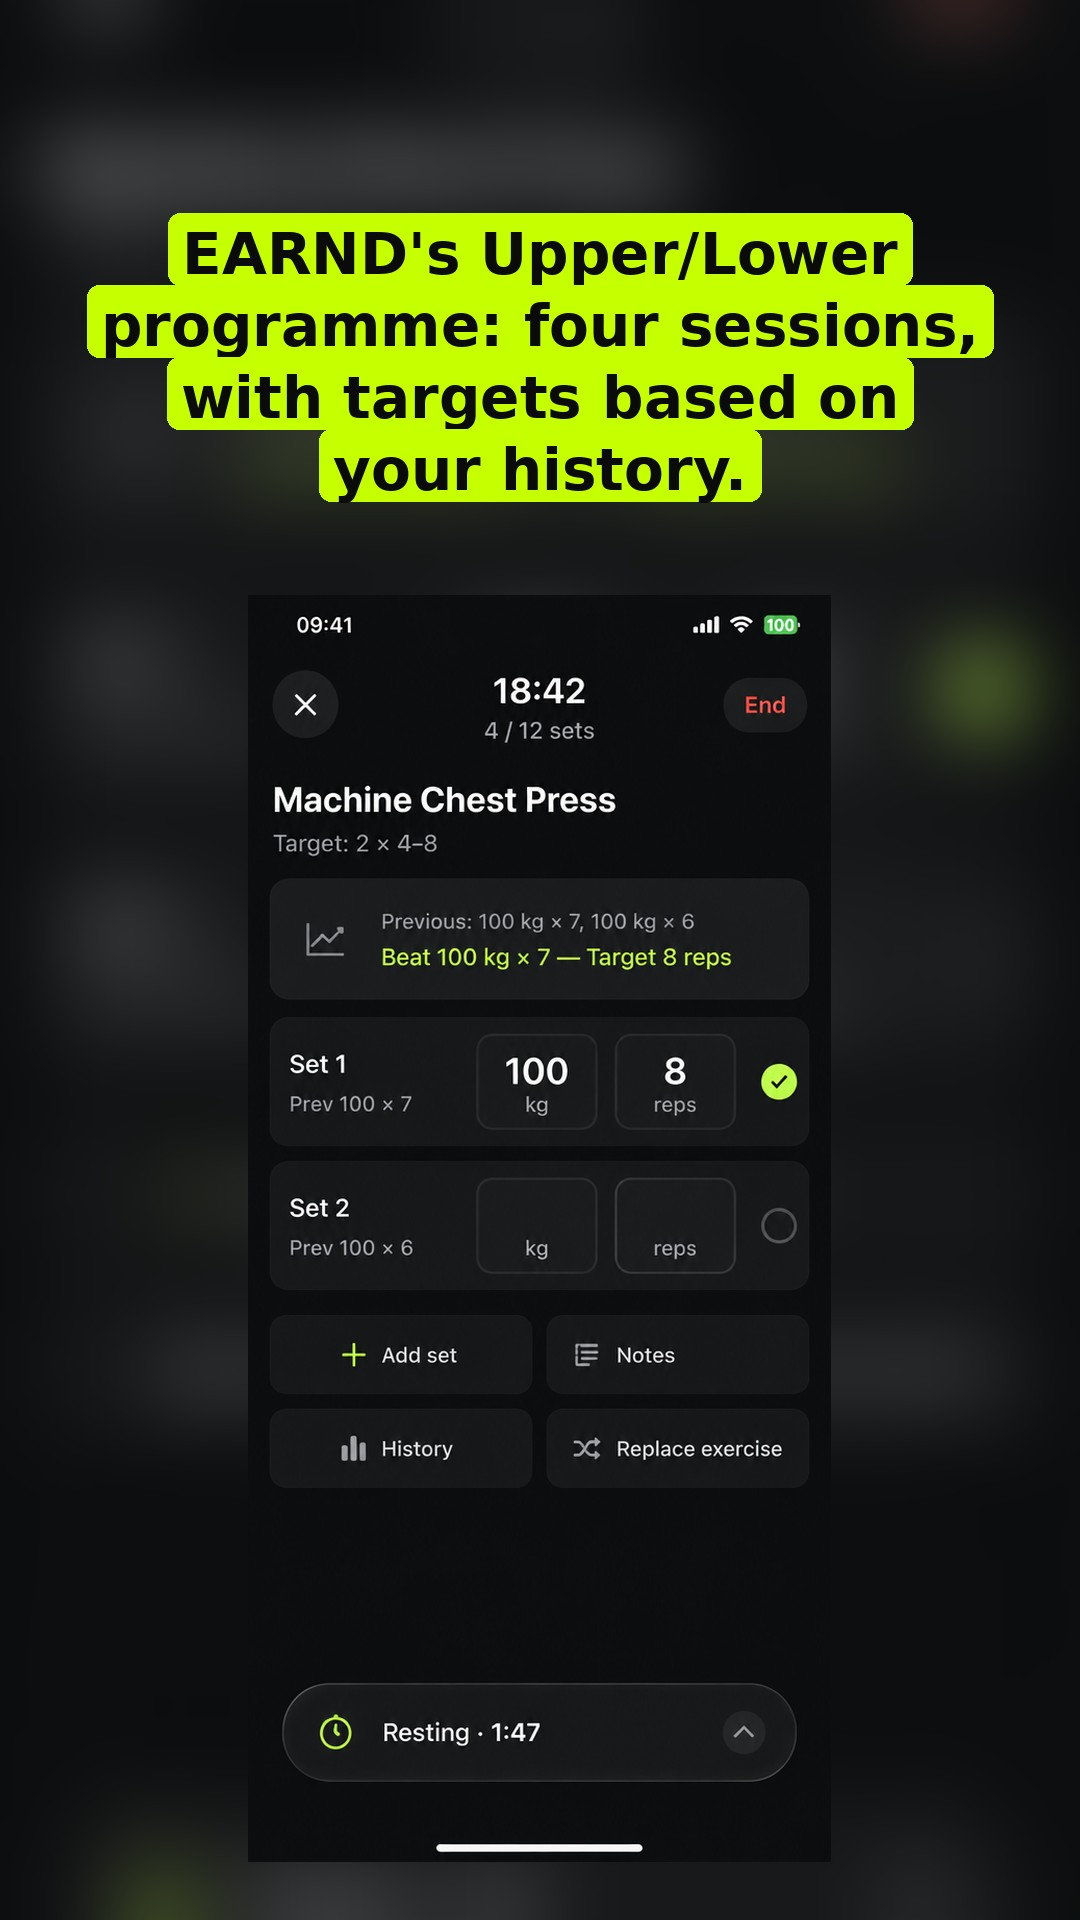
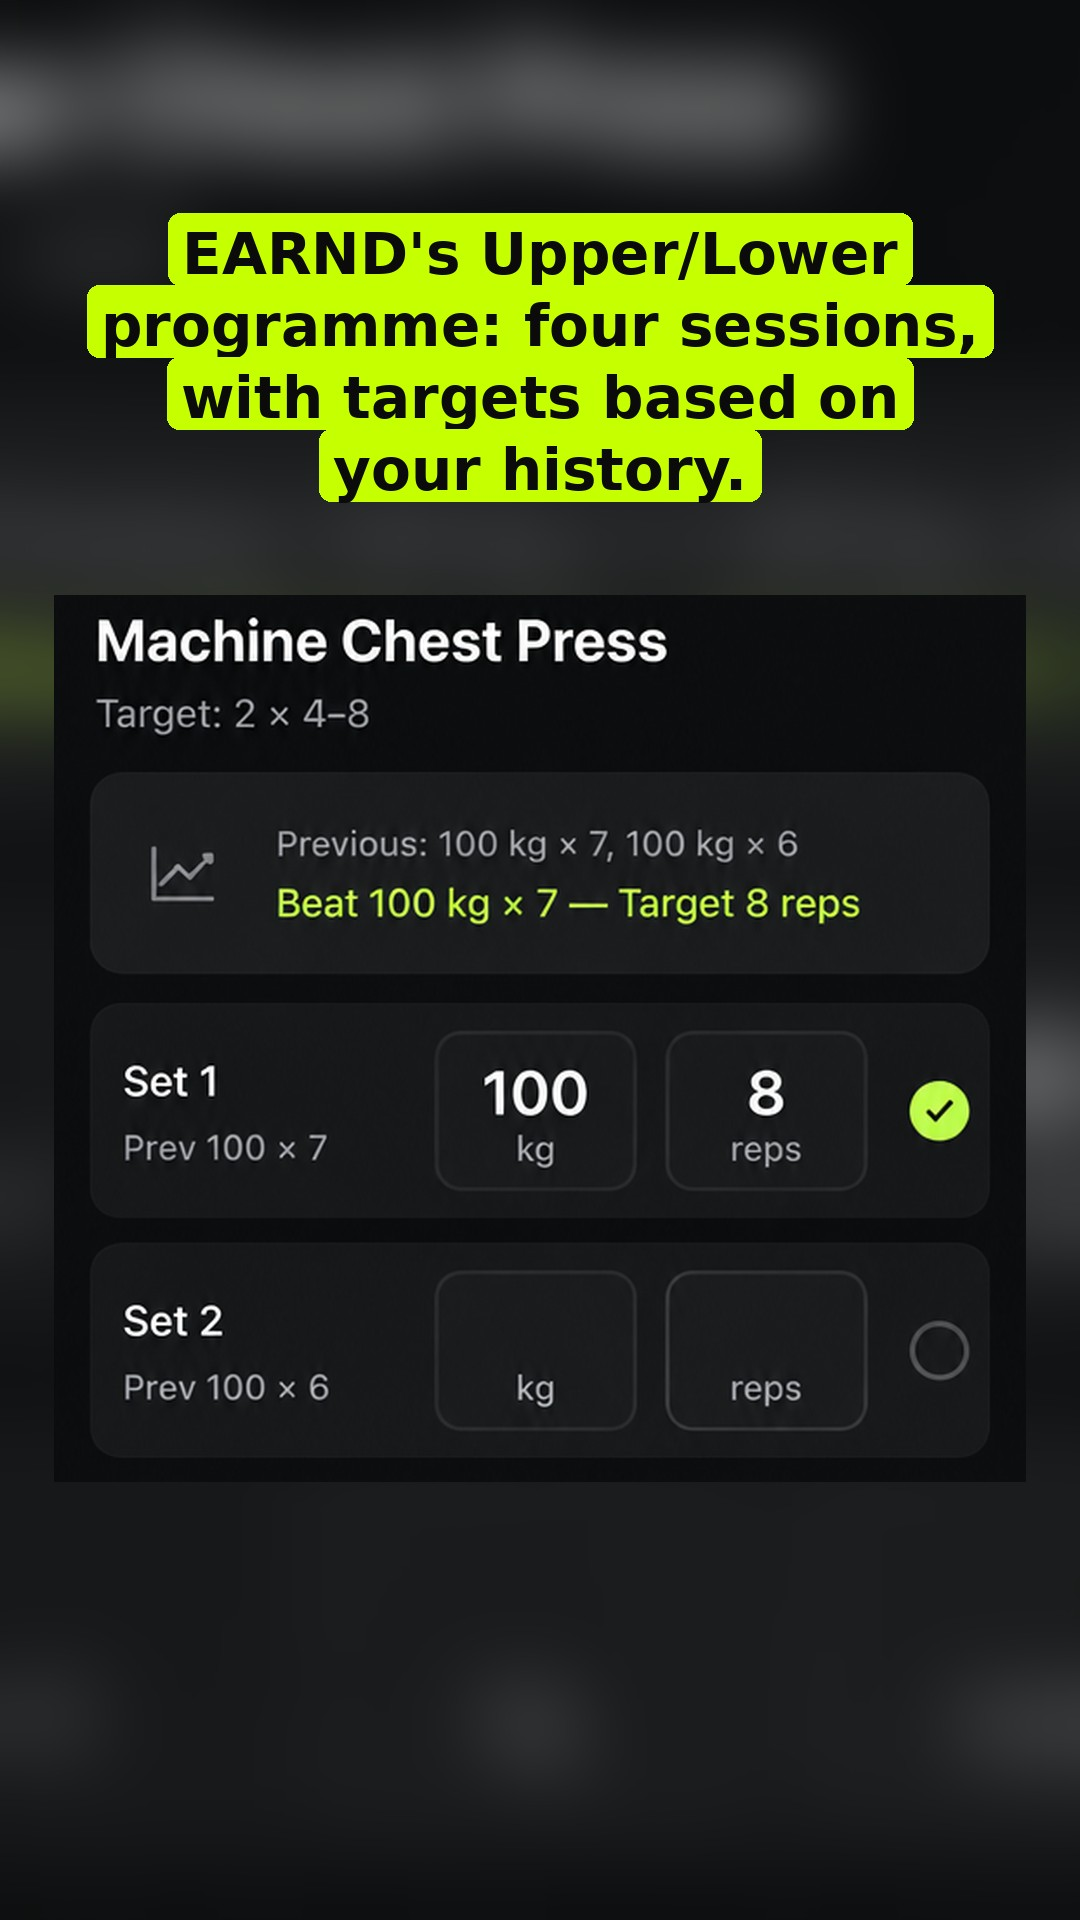
Render final @earndapp sets with a tighter screenshot crop
- Renderer: crop-only `shot_crop` for screenshot slides.
- Slide 4 in all three sets zooms to the exercise title, previous
  performance, target, and set rows. Interface and numbers unaltered.
- @ezyxbt approved to run alongside @earndapp; theme pages still gated.
- Brief records the screenshots as from the real working app.

Claude-Session: https://claude.ai/code/session_018kEa2y7a2hFCc4fcicf8SG

diff --git a/.claude/skills/slideshow-engine/scripts/render_slides.py b/.claude/skills/slideshow-engine/scripts/render_slides.py
@@ -73,6 +73,10 @@ def base_image(set_dir, project, slide, bg):
         path = os.path.join(root, rel)
         if rel and os.path.exists(path):
             img = Image.open(path).convert("RGB")
+            crop = slide.get("shot_crop")
+            if crop:  # [left, top, right, bottom] as fractions of the source; crop only, no edits
+                img = img.crop((round(crop[0] * img.width), round(crop[1] * img.height),
+                                round(crop[2] * img.width), round(crop[3] * img.height)))
             return fit_on_blur(img, slide.get("shot_area")) if is_screenshot(rel, slide) else cover(img)
     if rel:
         print(f"warning: slide {slide.get('n')}: image not found ({rel}), using solid background", file=sys.stderr)

diff --git a/01-app/app-brief.md b/01-app/app-brief.md
@@ -29,7 +29,7 @@ The thought we want: *"I don't have to remember my last workout or guess what to
 
 Scheduling and progress charts support this. They aren't the main selling moment.
 
-**Supplied screenshot (`01-app/assets/exercise-target.png`, 2026-10-24):** shows "Previous: 100 kg × 7, 100 kg × 6", "Beat 100 kg × 7 — Target 8 reps", Set 1 logged at 100 kg × 8 with a tick, Set 2 still empty (weight not pre-filled), and the rest timer running ("Resting · 1:47"). Copy must match what this screen shows: don't claim weights are pre-filled until a screenshot shows it.
+**Supplied screenshot (`01-app/assets/exercise-target.png`, 2026-10-24, confirmed captured from the real working app):** shows "Previous: 100 kg × 7, 100 kg × 6", "Beat 100 kg × 7 — Target 8 reps", Set 1 logged at 100 kg × 8 with a tick, Set 2 still empty (weight not pre-filled), and the rest timer running ("Resting · 1:47"). Copy must match what this screen shows: don't claim weights are pre-filled until verified. Slides may crop the screenshot to zoom in, but never alter the interface or numbers.
 
 Other screens supplied: `progress-chest-press.png` (best set, est. 1RM, best-set chart, recent sessions), `train-week-overview.png` (today's workout, week strip with rest days, "3 of 4 sessions this week"), `workout-complete-progressed.png` (session summary, per-exercise progression, new PR). None shows moving a session to another day.
 

diff --git a/CLAUDE.md b/CLAUDE.md
@@ -31,7 +31,7 @@ default_app_slide: 4
 - Never present our own promotional pages as independent recommendations. Founder and theme-page posts say EARND is ours.
 - The app enters on slide 3 or 4 by default, in the account's voice (brand: direct EARND product language).
 - Report every post per account: account, post ID, messaging angle, views, profile visits, attributable purchases where measurable. Leave unavailable metrics blank, never 0.
-- Don't add posting workload or new accounts until a format shows repeatable results. More accounts alone don't show which message sells EARND.
+- @earndapp and @ezyxbt run in parallel (approved 2026-10-24). Don't add theme pages or more posting workload until a format shows repeatable results. More accounts alone don't show which message sells EARND.
 - 5 to 10 slides. One idea per slide. Under 25 words per slide.
 - Never invent app UI. Only real screenshots from `01-app/assets/`.
 - Read `07-results/winners.md` and `07-results/failure-log.md` before writing any set.

diff --git a/.claude/skills/slideshow-engine/references/writing.md b/.claude/skills/slideshow-engine/references/writing.md
@@ -64,6 +64,7 @@ Field rules:
 - `role`: `hook` for slide 1, `cta` for the last slide, `middle` for everything else.
 - `text_mode`: `stroke` (white text, black outline, the classic TikTok look), `background` (black text on a white box), or `plain`.
 - `position`: `top` (about 19% down), `upper` (about 30% down, the default for hooks), `middle`, or `lower` (stays above the bottom 20%).
+- `shot_crop` (screenshot slides): `[left, top, right, bottom]` fractions of the source image, to zoom in on the part that matters. Crop only: never alter the interface or numbers.
 - `shot_area` (screenshot slides): `[top, bottom]` canvas fractions to fit the screenshot into, e.g. `[0.31, 0.97]` with `position: top` so the text never covers the UI.
 - `image`: a path relative to the set folder, or a path starting with `01-app/assets/` for screenshots.
 - Optional colour fields: `bg` (solid background when `image` is empty), `text_color` (text fill in any mode), `box_color` (box fill in `background` mode).
